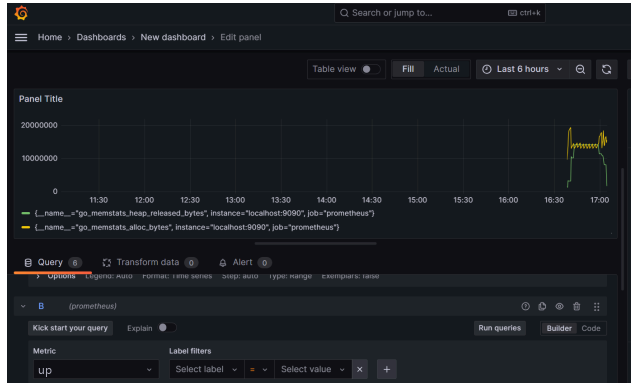
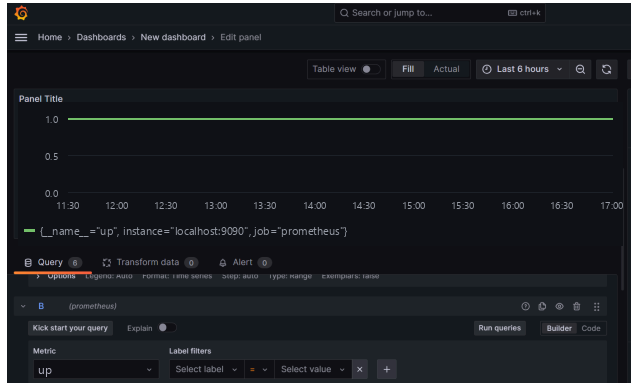
docs(learning-paths): update grafana screenshot, docker guidance, and platform requirements

diff --git a/content/learning-paths/d011fd20-a3f5-4480-883b-dfb34321d168/automation-and-reliability/introduction-to-observability/lab/e1/_index.md b/content/learning-paths/d011fd20-a3f5-4480-883b-dfb34321d168/automation-and-reliability/introduction-to-observability/lab/e1/_index.md
@@ -28,6 +28,32 @@ operational standards:
   unit file at `/etc/systemd/system/prometheus.service` to run Prometheus as a
   background service managed by the operating system, and enable it via
   `systemctl`.
+- **Default Scrape Configuration:** By default, Prometheus is configured in
+  `prometheus.yml` to scrape its own metrics endpoint at `localhost:9090`:
+
+  ```yaml
+  scrape_configs:
+    - job_name: "prometheus"
+      static_configs:
+        - targets: ["localhost:9090"]
+  ```
+
+  This scrape target ensures health metrics like `up` or `up{job="prometheus"}`
+  are immediately collected and available for queries.
+- **Docker Deployment Considerations:** If running services via Docker:
+  - When running Grafana in Docker on Linux Docker Engine to connect to host
+    Prometheus, start the container with host-gateway mapping:
+
+    ```bash
+    docker run -d -p 3000:3000 \
+      --add-host=host.docker.internal:host-gateway \
+      --name grafana grafana/grafana
+    ```
+
+  - When running both Prometheus and Grafana in Docker, attach them to a
+    shared user-defined bridge network (e.g.,
+    `docker network create monitoring`) and reference the Prometheus container
+    by name (`http://prometheus:9090`).
 
 ## Hands-on Exercise: Connecting Prometheus and Grafana
 
@@ -49,10 +75,14 @@ operational standards:
    - In the Grafana sidebar, navigate to **Connections** > **Data Sources** >
      **Add data source**.
    - Select **Prometheus** as the data source type.
-   - In the connection settings, set the Prometheus server URL to
-     `http://localhost:9090` (or `http://host.docker.internal:9090` if running
-     Grafana in a Docker container). On Linux Docker Engine, add a
-     `host.docker.internal:host-gateway` mapping to the Grafana container.
+   - In the connection settings, set the Prometheus server URL based on your
+     deployment:
+     - **Host-based / Docker Desktop:** `http://localhost:9090` (or
+       `http://host.docker.internal:9090` on Docker Desktop).
+     - **Linux Docker Engine (Host connection):**
+       `http://host.docker.internal:9090` (with `--add-host` mapped).
+     - **Shared Docker Network:** `http://prometheus:9090` (using container
+       name).
    - Click **Save & test** to verify connectivity between Grafana and
      Prometheus.
 

diff --git a/content/learning-paths/d011fd20-a3f5-4480-883b-dfb34321d168/automation-and-reliability/introduction-to-observability/lab/overview.md b/content/learning-paths/d011fd20-a3f5-4480-883b-dfb34321d168/automation-and-reliability/introduction-to-observability/lab/overview.md
@@ -7,8 +7,15 @@ weight: 1
 
 ### Overview
 
-Prometheus and Grafana are two powerful open source tools widely used in the monitoring and visualization of metrics in cloud native environments. They serve complementary roles: Prometheus is primarily used for metrics collection and alerting, while Grafana is leveraged for visualizing the data collected by Prometheus. Let's explore both tools, including how they work together to provide a comprehensive monitoring solution.
+Prometheus and Grafana are two powerful open source tools widely used in the
+monitoring and visualization of metrics in cloud native environments. They
+serve complementary roles: Prometheus is primarily used for metrics collection
+and alerting, while Grafana is leveraged for visualizing the data collected by
+Prometheus. Let's explore both tools, including how they work together to
+provide a comprehensive monitoring solution.
 
 ### Prerequisites
 
-Ensure you have an Ubuntu 20.04 host. You can follow the previous lab to provision a virtual machine for yourself.
+Ensure you have a supported host environment (Linux, macOS, or Windows) with
+the ability to install and run Prometheus and Grafana, or execute them as
+containers.
